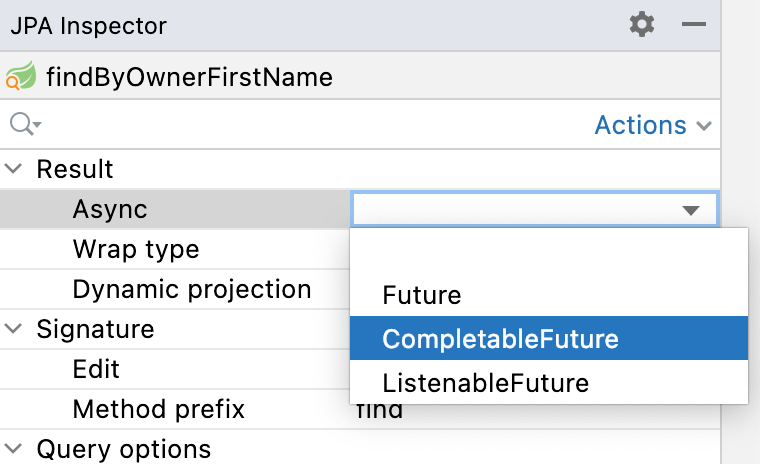
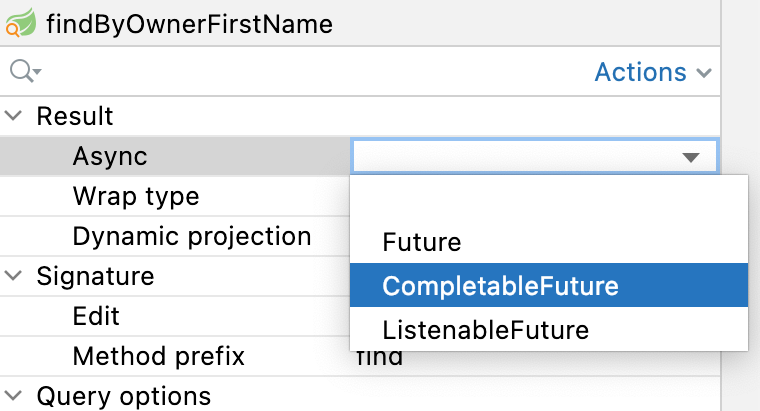
Adjust screenshots and descriptions according to new UI

diff --git a/database-versioning/database-versioning.md b/database-versioning/database-versioning.md
@@ -1,9 +1,14 @@
 ## Introduction
 
-Working with relational databases it is important to keep them synchronized with the data model represented in the source code. There are two popular approaches to this challenge:
+Working with relational databases it is important to keep them synchronized with the data model represented in the source code. There are two popular approaches to this challenge.
 
-- **Database first.** This approach takes the database as the first-class citizen, while data model classes (POJOs or JPA entities) are derived from the database schema via code generation, aka "Database reverse engineering". Following this scenario, you should not touch the generated classes, because they can be re-generated at any moment, and all changes made in the source code will be lost. Also, this way **doesn't save you from the migration scripts generation**, because they will be required to upgrade the existing installations to the newest version.
-- **Source code first**. This is an opposite approach having the single source of truth in the data model classes. Hence, the database gets modified in accordance with changes in the data model. To handle database update, the difference between the old state of the database and up-to-date state of the data model classes should be represented in migration scripts of any format (Flyway SQL migrations or Liquibase changelogs).
+### Database first
+
+This approach takes the database as the first-class citizen, while data model classes (POJOs or JPA entities) are derived from the database schema via code generation, aka "Database reverse engineering". Following this scenario, you should not touch the generated classes, because they can be re-generated at any moment, and all changes made in the source code will be lost. Also, this way **doesn't save you from the migration scripts generation**, because they will be required to upgrade the existing installations to the newest version.
+
+### Source code first
+
+This is an opposite approach having the single source of truth in the data model classes. Hence, the database gets modified in accordance with changes in the data model. To handle database update, the difference between the old state of the database and up-to-date state of the data model classes should be represented in migration scripts of any format (Flyway SQL migrations or Liquibase changelogs).
 
 **JPA Buddy** provides convenient tools that help developers to proceed with each of the described scenarios. This guide shows how JPA Buddy can save a lot of time for differential update scripts generation.
 
@@ -93,7 +98,7 @@ Using a data model as a source of the current schema state triggers selection of
 
 Effectively this means that if your application uses multiple data stores, you will need to generate migration scripts separately for each of them, specifying corresponding persistence units.
 
-To configure a new persistence unit, click on the plus button in the JPA Structure panel and choose “Persistence Unit”. In the opened window, you can define the persistence unit name, the default DB connection and select required entities. For entity selection, there are two possibilities that you can combine:
+To configure a new persistence unit, click on the plus button in the JPA Structure tab and choose “Persistence Unit”. In the opened window, you can define the persistence unit name, the default DB connection and select required entities. For entity selection, there are two possibilities that you can combine:
 
 - You can scan the needed package, and all entities located in it will be added automatically
 - You can manually select entities from the project
@@ -106,9 +111,9 @@ To configure a new persistence unit, click on the plus button in the JPA Structu
 
 JPA Buddy allows using a data model snapshot as the target of the comparison. Sometimes, it is impossible or hard to obtain a database for a certain state of the model, for example, when merging changes into some older version of the application. It may be simply impossible to keep a database dump for each release. JPA Buddy lets you checkout the required version of the application and generate a JSON snapshot based on the JPA entities, so no database will be required for differential migration scripts generation.
 
-To generate a snapshot, click the **Plus** button on top of the JPA Structure tool window and select the **JSON Snapshot** item.
+To generate a snapshot, open JPA Buddy panel and click the **Plus** button. Then, select the **Data model snapshot** item.
 
-![json_snapshot](img/json_snapshot.jpeg)
+![data-model-snapshot](img/data-model-snapshot.png)
 
 This allows you to capture the state of the data model at some older point, so that you can create a diff migration script describing all the modifications that happened from that point until now.
 
@@ -127,7 +132,7 @@ In four simple steps you get a migration script that describes the changes betwe
 
 ![init_schema_actions](img/init_schema_actions.png)
 
-For both Liquibase and Flyway, JPA Buddy provides action to generate initialization script for you schema. Once you select this action from JPA Structure panel, the correspondig window will appear:
+For both Liquibase and Flyway, JPA Buddy provides action to generate initialization script for you schema. Once you select this action from JPA Structure tab, the corresponding window will appear:
 
 ![init_schema_changelog](img/init_schema_changelog.jpeg)
 
@@ -217,23 +222,19 @@ By default, Primary and Secondary changelogs are generated in separate directori
 
 ### Creating and Modifying Changelogs
 
-JPA Buddy also offers tools for viewing, creating and modifying changelogs by hand. It adds three panels and a toolbar to the IntelliJ IDEA UI: JPA Structure (1), JPA Palette (2), JPA Inspector (3) and Editor Toolbar (4).
-
-![jpa_buddy_panels](img/jpa_buddy_panels.png)
+JPA Buddy also offers tools for viewing, creating and modifying changelogs by hand. It adds additional UI elements to IntelliJ IDEA.
 
 JPA Structure displays everything that JPA Buddy knows about the project. For Liquibase changelogs, it shows their hierarchy and contents:
 
-![jpa_structure_liquibase](img/jpa_structure_liquibase.jpeg)
+![jpa-structure-liquibase](img/jpa-structure-liquibase.png)
 
-To create a new changelog, right-click the desired folder in the project tree and select New -> Liquibase -> Empty Changelog. Or click the “plus” button in the top-left corner of the JPA Structure panel:
+To create a new changelog, right-click the desired folder in the project tree and select New -> Liquibase -> Empty Changelog. Or click the “plus” button in the top-left corner of the JPA Structure tab:
 
-![empty_liquibase_changelog](img/empty_liquibase_changelog.jpeg)
+![empty-liquibase-changelog](img/empty-liquibase-changelog.png)
 
-JPA Palette and JPA Inspector panels let you generate and modify code. They are context-dependent, they display options available for the opened file type. The Palette is used for code generation, and the Inspector for code modification.
+JPA Designer tab lets you generate and modify code. This tab is context-dependent, and displays options available for the opened file type. This tab splits into two parts: JPA Palette (1) and JPA Inspector (2). JPA Palette is used for code generation, and JPA Inspector for code modification.
 
-For example, here are some options JPA Palette offers for Liquibase changelogs:
-
-![jpa_palette_db_actions](img/jpa_palette_db_actions.jpeg)
+![jpa-buddy-designer](img/jpa-buddy-designer.png)
 
 Editor Toolbar provides fast access to relevant actions. It includes:
 
@@ -256,9 +257,9 @@ JPA Buddy also makes writing code by hand easier by providing code completion ba
 
 ### Running Liquibase changelogs/previewing SQL without Gradle/Maven plugins
 
-The JPA Structure panel also offers a way to run Liquibase updates and preview SQL. To run an update, click the “Liquibase Update” button:
+The JPA Structure tab also offers a way to run Liquibase updates and preview SQL. To run an update, click the “Liquibase Update” button:
 
-![jpa_structure_liquibase_update](img/jpa_structure_liquibase_update.jpeg)
+![jpa-structure-liquibase-update](img/jpa-structure-liquibase-update.png)
 
 The Liquibase Update window will open with configuration options:
 
@@ -345,7 +346,7 @@ On the left of the window, there is a preview of the actual changes to be genera
 
 ![flyway_add_migration](img/flyway_add_migration.jpeg)
 
-Above the list of changes, there is a button panel with the following actions:
+Above the list of changes, there is a buttons panel with the following actions:
 
 - Add Versioned Migration— create a secondary versioned migration.
 - Remove from Versioned Migration with options:
@@ -365,9 +366,9 @@ To combine several changes into one migration file or to ignore them, drag them 
 
 Java-based migrations are a great fit for all changes that can not easily be expressed using SQL. These migrations represent java classes that implement the `JavaMigration` interface or inherit from the `BaseJavaMigration` class. JPA Buddy follows the second option and generates the class name according to Flyway’s default [naming convention](https://flywaydb.org/documentation/concepts/migrations.html#naming-1). This enables Flyway to automatically extract the version and the description from the class name.
 
-To generate java migration, press the plus button in the JPA Structure panel and choose the corresponding item.
+To generate java migration, press the plus button in the JPA Structure tab and choose the corresponding item.
 
-![jpa_structure_java_migration](img/jpa_structure_java_migration.jpeg)
+![jpa-structure-java-migration](img/jpa-structure-java-migration.png)
 
 In the opened window, you can set class name, source root and package name:
 
@@ -388,9 +389,9 @@ public class V4__ extends BaseJavaMigration {
 
 ### Flyway Callbacks
 
-While migrations are sufficient for most needs, certain situations require you to execute the same action over and over again. With the help of JPA Buddy, you can generate [all events](https://flywaydb.org/documentation/concepts/callbacks) that Flyway supports. To generate SQL or java callbacks, press the plus button in the JPA Structure panel and choose the corresponding item.
+While migrations are sufficient for most needs, certain situations require you to execute the same action over and over again. With the help of JPA Buddy, you can generate [all events](https://flywaydb.org/documentation/concepts/callbacks) that Flyway supports. To generate SQL or java callbacks, press the plus button in the JPA Structure tab and choose the corresponding item.
 
-![jpa_structure_java_callback](img/jpa_structure_java_callback.jpeg)
+![jpa-structure-callbacks](img/jpa-structure-callbacks.png)
 
 #### SQL Callbacks
 
@@ -491,7 +492,7 @@ If you stumble upon `SchemaManagementException` on the application startup, it m
 
 ### Show DDL Action
 
-JPA Buddy provides the action to generate DDL statements for only one specific entity. To see the DDL, hover the cursor over the class name and call the action from the IntelliJ IDEA Context Actions menu or JPA Inspector. Also, you can call this action from the Project and JPA Structure panels: just right-click on the target entity.
+JPA Buddy provides the action to generate DDL statements for only one specific entity. To see the DDL, hover the cursor over the class name and call the action from the IntelliJ IDEA Context Actions menu or JPA Inspector. Also, you can call this action from the Project panel and JPA Structure tab: just right-click on the target entity.
 
 ![show_ddl](img/show_ddl.png)
 

diff --git a/spring-data/spring-data.md b/spring-data/spring-data.md
@@ -33,17 +33,17 @@ When we have a lot of entities, creating Spring Data repositories one by one bec
 
 For the most efficient navigation in the project, JPA Buddy groups all repositories for each entity. It doesn't matter if the repositories for the entity are located in different or in the same project package. All repositories related to the entity will be displayed in the "Repositories" section. From here, you can quickly move to the repository implementation or create a new one.
 
-![jpa_structure_repository](img/jpa_structure_repository.png)
+![-structure-repository](img/jpa-structure-repository.png)
 
 ## Queries/Methods Generation
 
-Spring Data provides the ability to define a query with the `@Query` annotation. You can use JPA Palette or Editor Toolbar to write them quickly and without any typos. Choose one of the following types of queries and configure them with the convenient UI.
+Spring Data provides the ability to define a query with the `@Query` annotation. You can use JPA Designer (1) or Editor Toolbar (2) to write them quickly and without any typos. Choose one of the following types of queries and configure them with the convenient UI.
 
-![jpa_palette_query](img/jpa_palette_query.png)
+![jpa-palette-query](img/jpa-palette-query.png)
 
 ### Example
 
-<div class="note">All that we will consider in the example below can be generated as `@Query` and as a derived query method. The only difference is that for the derived query method, you can't specify its name because it will be generated automatically according to [Naming Conventions for Query.](https://docs.spring.io/spring-data/jpa/docs/current/reference/html/#jpa.query-methods.query-creation)
+<div class="note">All that we will consider in the example below can be generated as @Query and as a derived query method. The only difference is that for the derived query method, you can't specify its name because it will be generated automatically according to [Naming Conventions for Query.](https://docs.spring.io/spring-data/jpa/docs/current/reference/html/#jpa.query-methods.query-creation)
 </div>
 
 Let's look at an example of creating a Find Collection Query.
@@ -99,11 +99,11 @@ Spring Data provides several keyword expressions for derived query method names.
 
 ![conditions_settings](img/conditions_settings.png)
 
-## JPA Inspector
+## Existing methods/queries modification
 
-Since JPA Inspector is a context-dependent panel intended to modify already existing code, let’s consider the scope related to methods and queries. Once you place a cursor on the method or query you can configure the result, signature, query options, and string.
+To configure the method or query, place a cursor on it. Then, JPA Inspector section will appear in the JPA Designer tab:
 
-![jpa_inspector](img/jpa_inspector.png)
+![jpa-inspector](img/jpa-inspector.png.png)
 
 ### EntityGraph Support
 
@@ -112,6 +112,7 @@ The EntityGraph feature has been introduced in JPA 2.1, it has been one of the m
 <div class="youtube" align="center">
 <iframe width="560" height="315" src="https://www.youtube.com/embed/Duco-QWBXy0" title="YouTube video player" frameborder="0" allow="accelerometer; autoplay; clipboard-write; encrypted-media; gyroscope; picture-in-picture" allowfullscreen></iframe>
 </div>
+
 ## Query Refactoring
 
 ### Async
@@ -120,8 +121,7 @@ Spring Data JPA provides the ability to run repository queries asynchronously. T
 
 * Future<ClassName>
 * CompletableFuture<ClassName>
-
-- ListenableFuture<ClassName>
+* ListenableFuture<ClassName>
 
 Learn more about asynchronous query results at the corresponding Spring Data JPA documentation [page](https://docs.spring.io/spring-data/jpa/docs/current/reference/html/#repositories.query-async).
 
@@ -209,6 +209,10 @@ public interface PetInfo {
 }
 ```
 
+### Keep Projections in sync with its JPA entity
+
+As time passes, entities may change, and you need to change projections accordingly. JPA Buddy allows you to synchronize an entity with its projection and vice versa. Read more about this feature in the [DTO Generator](https://www.jpa-buddy.com/documentation/dto-generator/keep-dtos-in-sync-with-its-jpa-entity) section.
+
 ### Projection Declaration Settings
 
 Each project may follow its own conventions for code writing. In the Tools -> JPA Buddy -> Projection Declaration you can configure:
@@ -223,7 +227,7 @@ Each project may follow its own conventions for code writing. In the Tools -> JP
   ```
 
   The feature is disabled when the field is empty.
-3. Name pattern regexp. This option is useful if you use an obligatory naming convention for Projections. It allows JPA Buddy to associate Projection with its JPA Entity using a Projection name only. To specify a placeholder for the simple class name of the target JPA entity, use the `(?<entity>.)` pattern. E.g., `(?<entity>.*(?:Info|Prj|Projection|VO|Vo|View|Request|Browse)` means that the `MyEntityInfo`, `MyEntityPrj` and etc. classes will be considered as a Projections for `MyEntity`.
+3. Name pattern regexp. This option is useful if you use an obligatory naming convention for Projections. It allows JPA Buddy to associate Projection with its JPA Entity using a Projection name only. To specify a placeholder for the simple class name of the target JPA entity, use the `(?<entity>.)` pattern. E.g., `(?<entity>.*(?:Info|Prj|Projection|VO|Vo|View|Request|Browse)` means that the `MyEntityInfo`, `MyEntityPrj` etc. classes will be considered as a Projections for `MyEntity`.
 
   The feature is disabled when the field is empty. 
 4. Class comment. Defines the comment that will be generated over the Projection interface.
@@ -237,4 +241,4 @@ As soon as JPA Buddy is able to associate Projection interface with the entity:
 - The Projection interface will appear in the **Dto & Projections** section in the JPA Structure panel and in the Editor Toolbar (1)
 - The gutter icon will appear in the Projection to ease the navigation to its entity (2)
 
-![projection_navigation](img/projection_navigation.png)
+![projection-navigation](img/projection-navigation.png)

diff --git a/entity-designer/entity-designer.md b/entity-designer/entity-designer.md
@@ -60,7 +60,7 @@ private Long id;
 
 ## JPA Structure
 
-JPA Structure panel provides a comprehensive data-centric view on the project. You can use it for many purposes:
+JPA Structure tab provides a comprehensive data-centric view on the project. You can use it for many purposes:
 
 1. Traverse through the data model. The entity structure is represented hierarchically. You can easily observe and navigate to entities referencing the current one and ones the current entity refers to. This is an extremely useful feature, especially for those who are just diving into an existing project with a large entity graph or for code reviewers, who often see parts of the data model for the first time and have limited time to understand how it is designed.
 2. Create data-related objects: entities, JPA converters / Hibernate types, Spring Data repositories and Liquibase changelog.
@@ -71,7 +71,7 @@ JPA Structure panel provides a comprehensive data-centric view on the project. Y
 
 ## JPA Designer
 
-Once the JPA entity is created, Designer tab appears in the JPA Buddy tool window. It splits into two parts called: JPA Palette (1) and JPA Inspector (2). The content of these panels is context-depended. The idea of the JPA Palette is to generate attributes, indexes, queries, etc. Meanwhile, JPA Inspector is designed to edit existing attributes, indexes, queries, etc.
+Once the JPA entity is created, Designer tab appears in the JPA Buddy tool window. The content of this tab is context-depended. Designer tab splits into two parts called: JPA Palette (1) and JPA Inspector (2). The idea of the JPA Palette is to generate attributes, indexes, queries, etc. Meanwhile, JPA Inspector is designed to edit existing attributes, indexes, queries, etc.
 
 ![jpa-designer](img/jpa-designer.png)
 

diff --git a/installation-guide/installation-guide.md b/installation-guide/installation-guide.md
@@ -189,7 +189,7 @@ Since JPA Buddy supports Hibernate, EclipseLink, SpringData, MapStruct, Liquibas
   </tr>
   <tr>
     <td class="tg-0lax"><a href="https://mvnrepository.com/artifact/org.hibernate.validator/hibernate-validator" target="_blank" rel="noopener noreferrer">Hibernate Validator</a></td>
-    <td class="tg-0lax" rowspan="2">Add Hibernate Validator annotations to Entity attributes via the JPA Inspector panel.</td>
+    <td class="tg-0lax" rowspan="2">Add Hibernate Validator annotations to Entity attributes via JPA Designer.</td>
   </tr>
   <tr>
     <td class="tg-0lax"><a href="https://mvnrepository.com/artifact/org.springframework.boot/spring-boot-starter-validation" target="_blank" rel="noopener noreferrer">SpringBoot</a> <a href="https://mvnrepository.com/artifact/org.springframework.boot/spring-boot-starter-validation" target="_blank" rel="noopener noreferrer">Starter Validation</a></td>
@@ -226,9 +226,9 @@ To make sure that the plugin is installed correctly, follow these steps:
 
 ![settings_plugin_installed](img/settings_plugin_installed.jpeg)
 
-- Open existing or create a new entity and click somewhere in it. You should find three additional tool windows: JPA Structure, JPA Palette, and JPA Inspector. Note that visual tools will appear only after JPA Buddy detects one of the dependencies described in the section above.
+- Open existing or create a new entity and click somewhere in it. You should find Editor Toolbar (1) and JPA Buddy tool window (2). Note that visual tools will appear only after JPA Buddy detects one of the dependencies described in the section above.
 
-![jpa_buddy_panels](img/jpa_buddy_panels.png)
+![first-sight](img/first-sight.png)
 
 ## Installing a Specific Version of JPA Buddy
 

diff --git a/reverse-engineering/reverse-engineering.md b/reverse-engineering/reverse-engineering.md
@@ -21,7 +21,7 @@ In the **IntelliJ IDEA Ultimate Edition**, you can generate entities from DB via
 * Project Panel (2) using right-click;
 * Database panel (3) using right-click;
 
-![entities_from_db_action](img/entities_from_db_action.png)
+![entities-from-db-action](img/entities-from-db-action.png)
 
 ## Entities from DB Wizard
 
@@ -118,9 +118,9 @@ JPA Buddy follows all best practices providing the most efficient mapping for DB
 
 ## Reverse Engineering Columns
 
-Some developers prefer the DB-first application development approach. First, they add columns directly to the database and then update the JPA model. JPA Buddy can automate this process. To add attributes to the existing entity, choose From DB action in JPA Palette (1), Editor Toolbar (2) or from the IntelliJ IDEA "Generate" menu (3):
+Some developers prefer the DB-first application development approach. First, they add columns directly to the database and then update the JPA model. JPA Buddy can automate this process. To add attributes to the existing entity, choose From DB action in JPA Designer (1), Editor Toolbar (2) or from the IntelliJ IDEA "Generate" menu (3):
 
-![reverse_engineering_columns_action](img/reverse_engineering_columns_action.png)
+![reverse-engineering-columns-action](img/reverse-engineering-columns-action.png)
 
 After that, the Reverse Engineering Columns wizard will appear:
 

diff --git a/database-connections/database-connections.md b/database-connections/database-connections.md
@@ -13,9 +13,9 @@ For now, JPA Buddy supports following databases:
 - [H2](https://www.h2database.com/html/main.html)
 - [IBM Db2](https://www.ibm.com/analytics/db2)
 
-![jpa_structure_db_connection](img/jpa_structure_db_connection.jpeg)
+![jpa-structure-db-connection](img/jpa-structure-db-connection.png)
 
-You can fill the required settings for the connection manually, but if your project contains data source settings in the *application.properties* file, JPA Buddy can get them and paste into corresponding fields automatically. Click on the “Detect Connections” button in the JPA Structure panel and the window will appear with filled fields.
+You can fill the required settings for the connection manually, but if your project contains data source settings in the *application.properties* file, JPA Buddy can get them and paste into corresponding fields automatically. Click on the “Detect Connections” button in the JPA Structure tab and the window will appear with filled fields.
 
 As the IntelliJ IDEA Ultimate provides a large number of options for data sources configurations, there is no needs to create other connections to make JPA Buddy works. You can learn more about it on the corresponding [JetBrains documentation page](https://www.jetbrains.com/help/idea/data-sources-and-drivers-dialog.html).
 

diff --git a/paid-features/paid-features.md b/paid-features/paid-features.md
@@ -35,3 +35,13 @@ If you prefer to design a database first and then code JPA entities to map the t
 <div class="youtube" align="center">
 <iframe width="560" height="315" src="https://www.youtube.com/embed/Lr_zg_uhWW4" title="YouTube video player" frameborder="0" allow="accelerometer; autoplay; clipboard-write; encrypted-media; gyroscope; picture-in-picture" allowfullscreen></iframe>
 </div>
+
+## DTO Generator
+
+DTOs are essential for web apps, but their implementation brings boilerplate. Dozens of classes that nearly copy your entities, each comes with a mapper. With the **DTO Generation** feature, you can save time from routine work. Using it, you can create DTOs and MapStruct mappers based on the JPA entity definition.
+
+But it’s not all! As time passes, entities may change, and you need to change DTOs accordingly. JPA Buddy addresses this problem as well. It allows you to **synchronize an entity with its DTO** and vice versa.
+
+Also, JPA Buddy provides **Entity from POJO** action that helps to generate a JPA entity from any java/kotlin class. This feature may be helpful if you develop your application following the API-first approach: define DTOs for the API first and implement the data model later.
+
+//paid video will appear here

diff --git a/minimalistic-mode/minimalistic-mode.md b/minimalistic-mode/minimalistic-mode.md
@@ -38,7 +38,7 @@ To disable minimalistic mode, open **Settings -> Tools -> JPA Buddy -> Designer 
 
 ### JPA Structure
 
-Since one of the primary purposes of [JPA Structure](https://www.jpa-buddy.com/documentation/entity-designer/#jpa-structure) panel is to provide a comprehensive data-centric view of the project, it will be available in the Project panel. You can select it from the drop-down list.
+Since one of the primary purposes of [JPA Structure](https://www.jpa-buddy.com/documentation/entity-designer/#jpa-structure) tab is to provide a comprehensive data-centric view of the project, it will be available in the Project panel. You can select it from the drop-down list.
 
 ![project-drop-down-list](img/project-drop-down-list.jpeg)
 

diff --git a/dto-generator/dto-generator.md b/dto-generator/dto-generator.md
@@ -154,7 +154,7 @@ Each project may follow its own conventions for code writing. In the Tools -> JP
 
 As soon as JPA Buddy is able to associate DTO class with the entity:
 
-- The DTO class will appear in the **Dto & Projections** section in the JPA Structure panel and in the Editor Toolbar (1)
+- The DTO class will appear in the **Dto & Projections** section in the JPA Structure tab and in the Editor Toolbar (1)
 - The gutter icon will appear in the DTO to ease the navigation to its entity (2)
 
 ![dto_navigation](img/dto_navigation.png)
